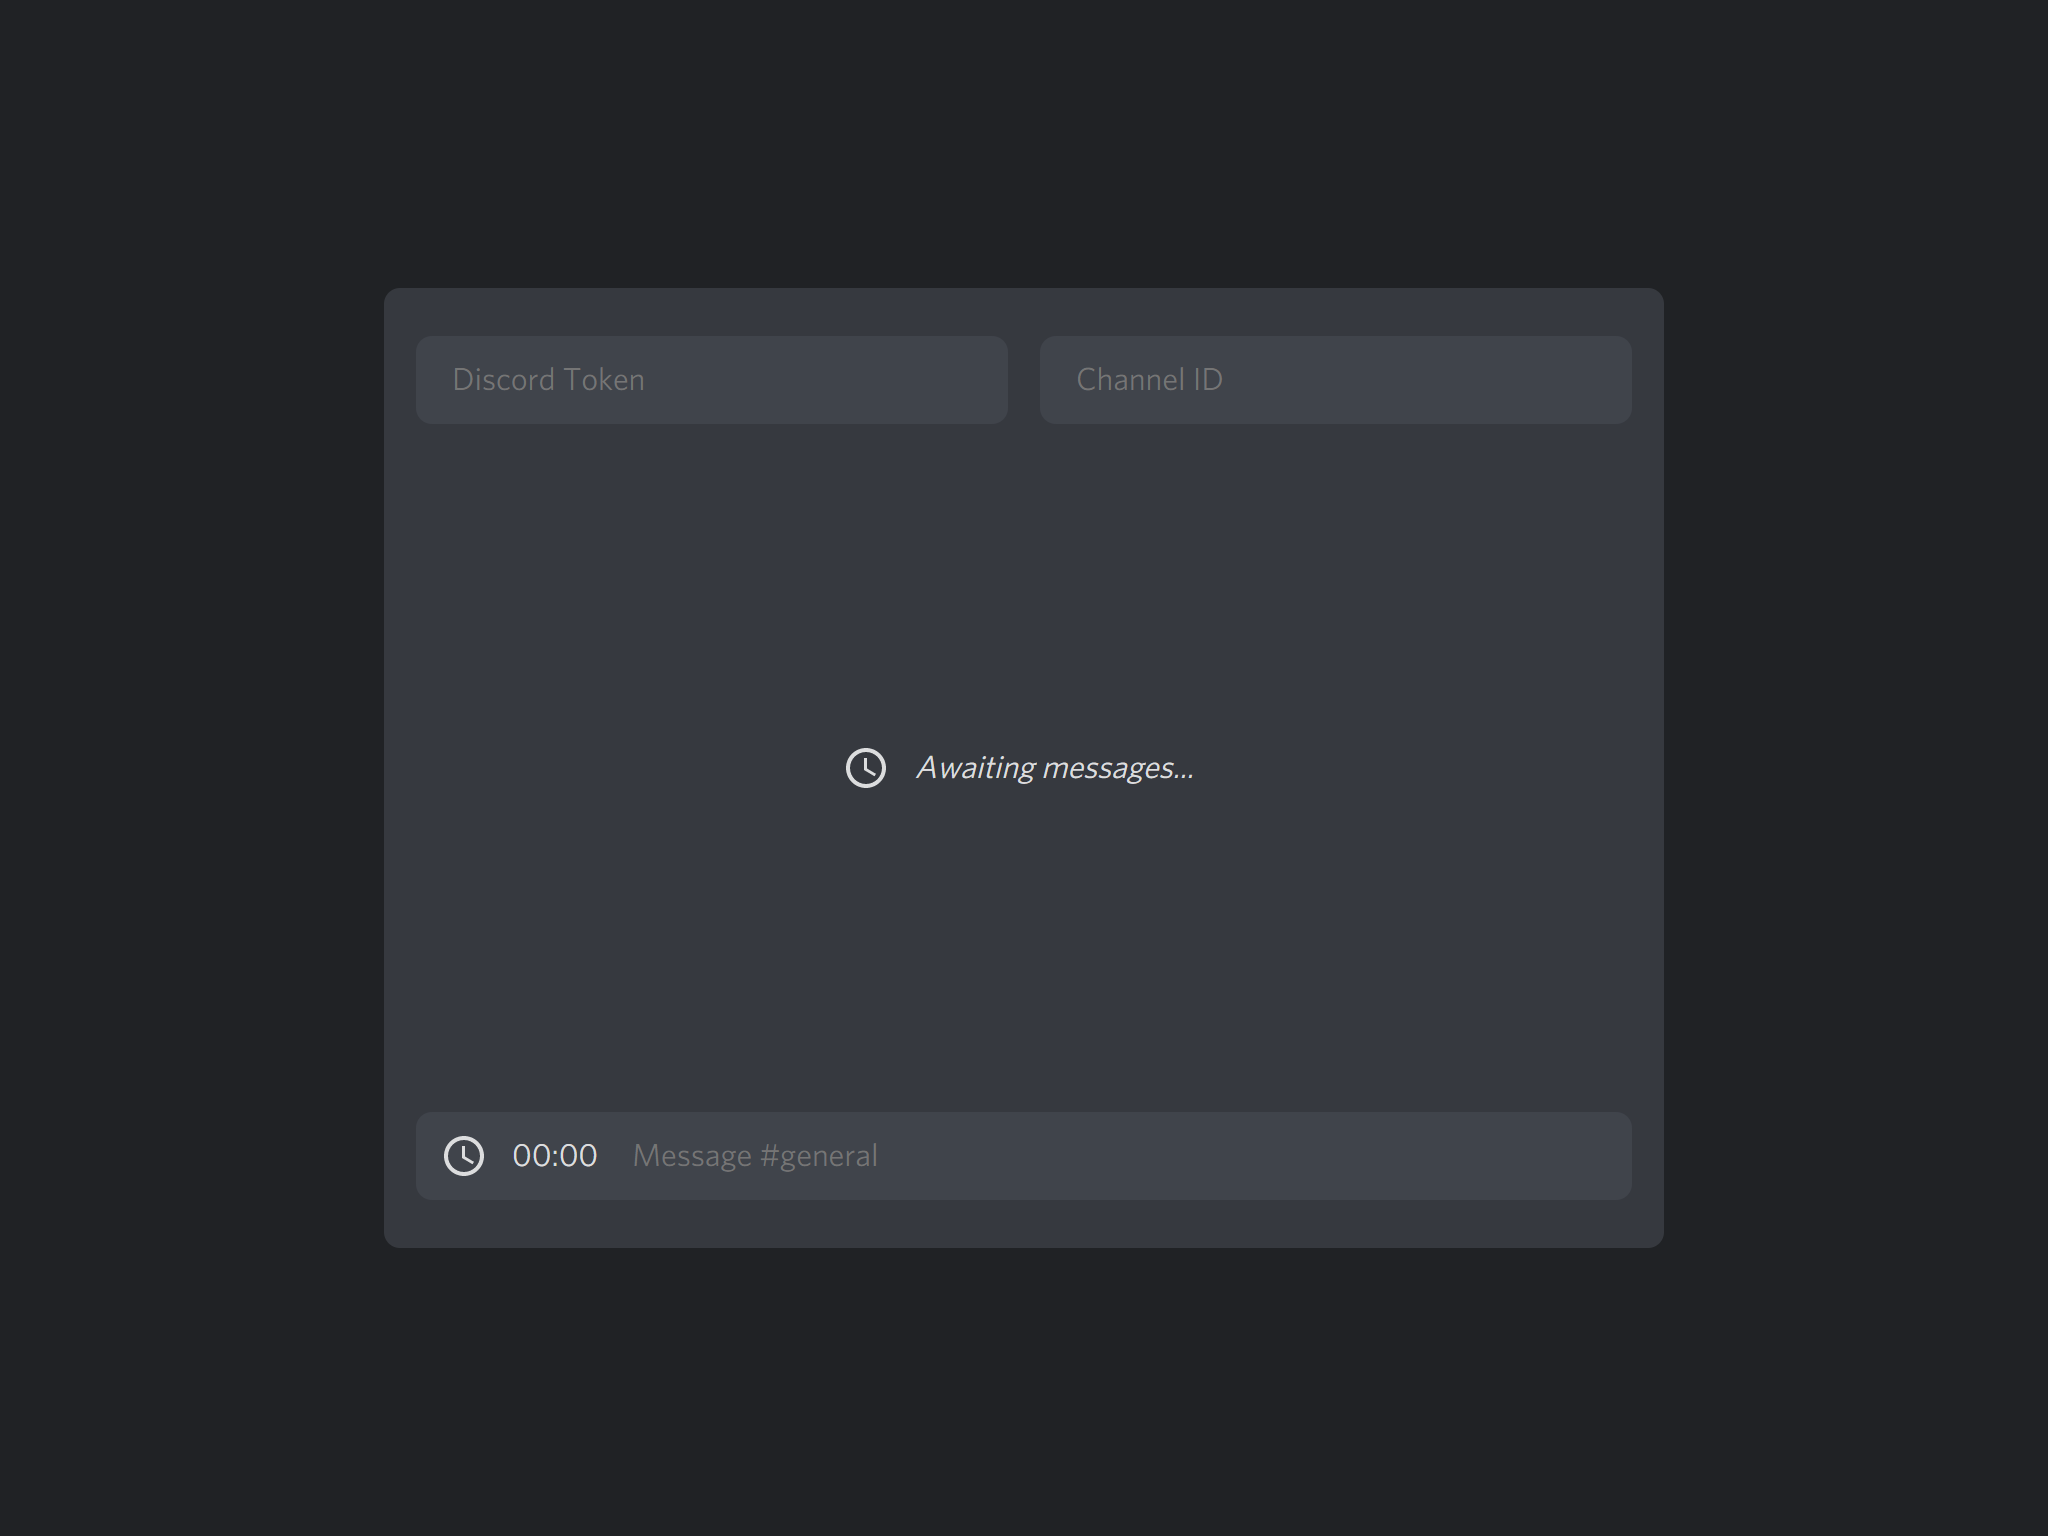
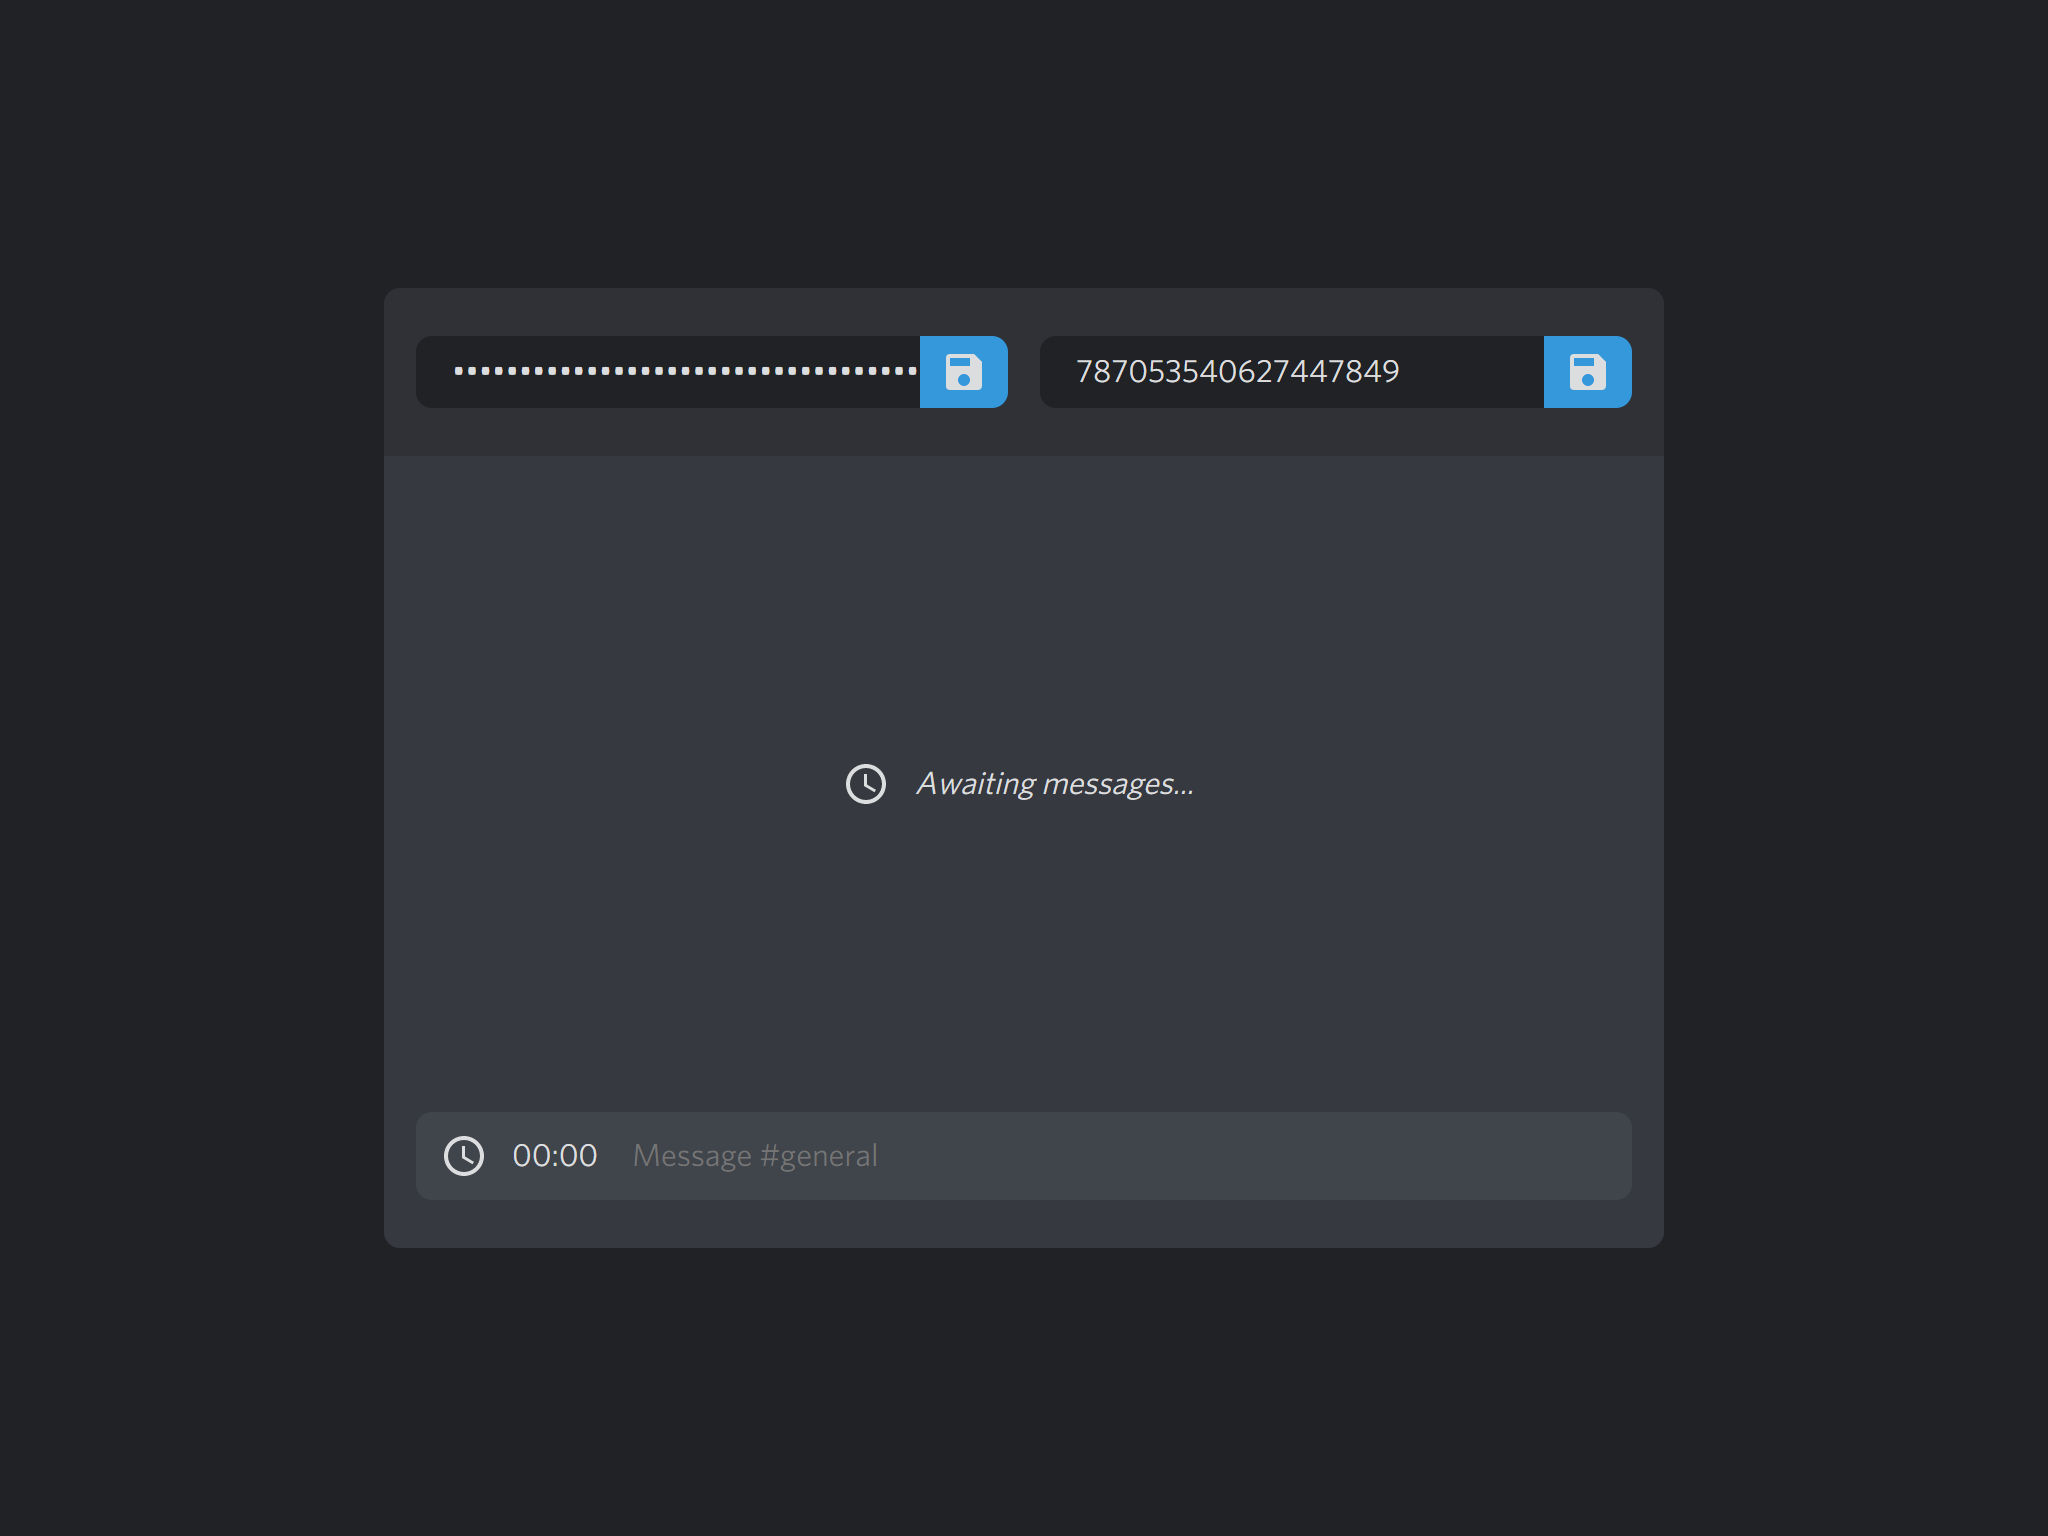
Update README.md

Changed region(s): [[0.1875, 0.2188, 0.8125, 0.2812], [0.4062, 0.4688, 0.5938, 0.5312]]

diff --git a/README.md b/README.md
@@ -3,6 +3,23 @@
 
 [![Netlify Status](https://api.netlify.com/api/v1/badges/b5bb1a13-107e-423c-a473-64f1d869955d/deploy-status)](https://app.netlify.com/sites/discord-message-queue/deploys)
 
+Delay each message by 60 seconds by using discord message queue.
+
 This project is hosted here https://discord-message-queue.netlify.app/
+
+## Features
++ Sending messages every 60 seconds
++ Merging messages
++ Removing messages
++ Saving token and channel id to local storage
+
+## Todo
++ Editing messages
++ Saving multiple channel ids
++ Auto merging messages within a customizable threshold
++ Customizable merge delimiter
++ Customizable timer duration
+
+## Preview
 
 ![screenshot](screenshot.png)
